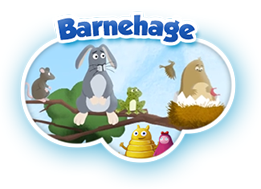
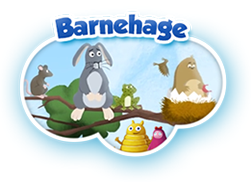
CHANGELOG:
-Endret størrelse på barnehage bildet.
-La det til i HTML

diff --git a/sprint4/Kode/Foundation/index.html b/sprint4/Kode/Foundation/index.html
@@ -39,7 +39,7 @@
                 <div class="row">
                     <div class="large-3 medium-6 small-12 columns">
                         <div class="menu-option">
-                            <img src="img/skoleveien.png">
+                            <img src="img/barnehage.png">
                         </div>
                     </div>
                     <div class="large-3 medium-6 small-12 columns">
